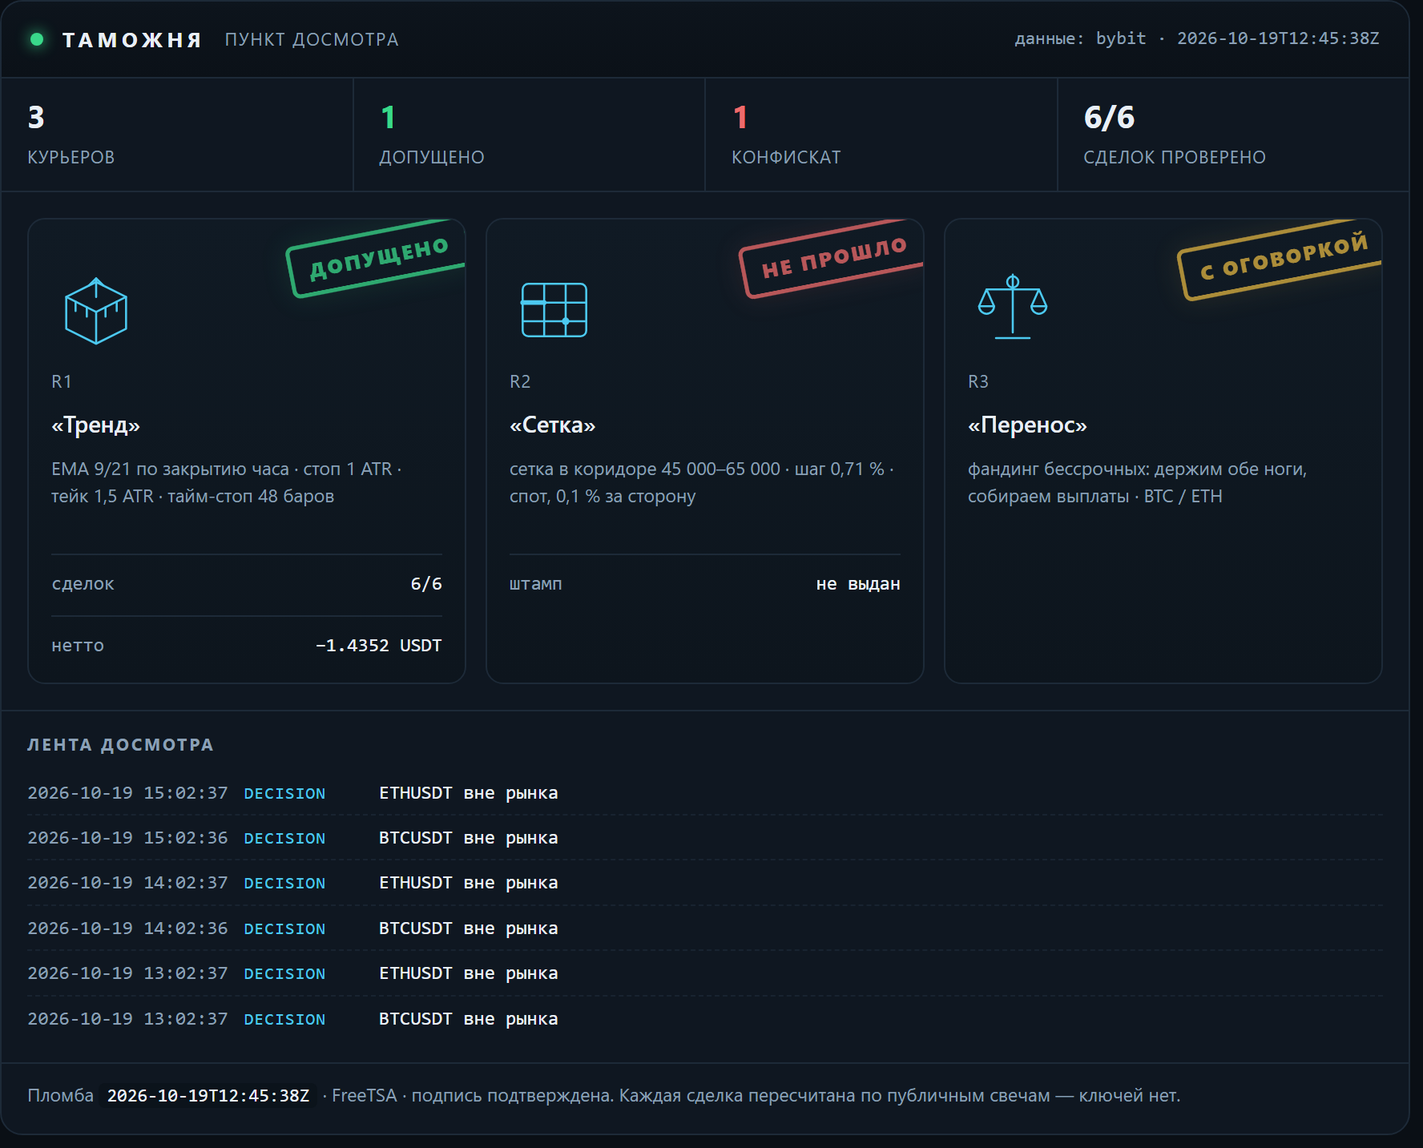
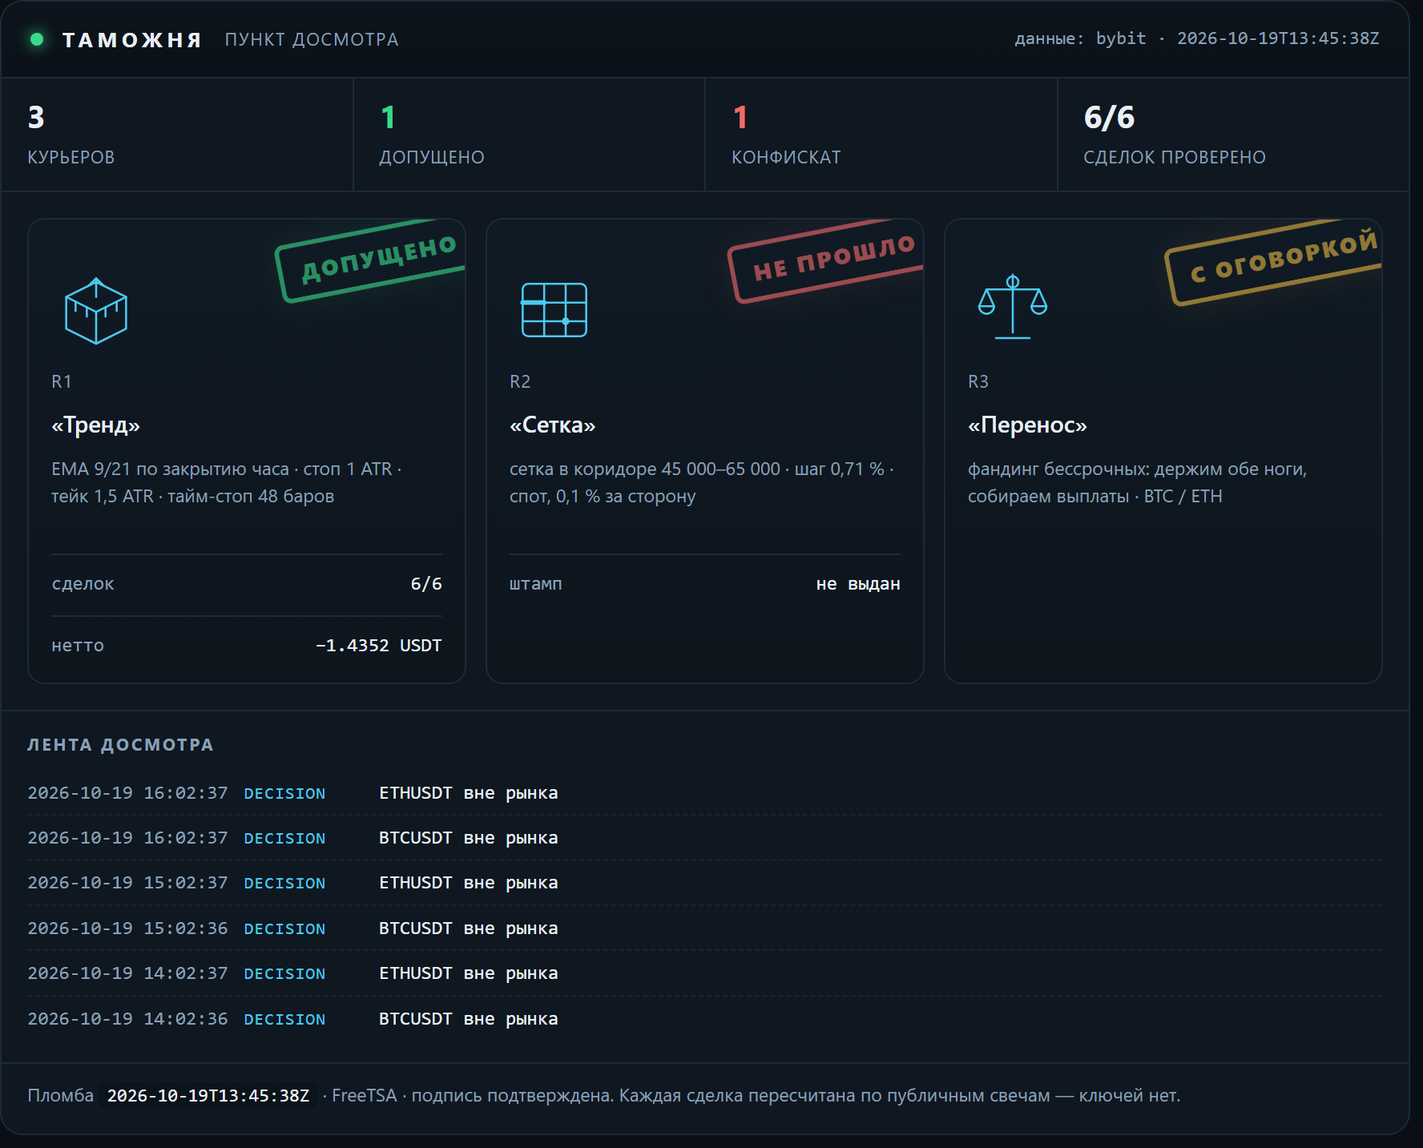
lab: таможня — свежие числа досмотра

Changed region(s): [[0.8052, 0.1842, 0.96, 0.2763], [0.4955, 0.1842, 0.6503, 0.2763], [0.1858, 0.1842, 0.3407, 0.2763]]

diff --git a/docs/customs.html b/docs/customs.html
@@ -16,7 +16,7 @@
   <h1><a href="index.html">Gramwright Lab</a></h1>
   <p>Журнал проверки торговых гипотез: что проверяли, что вышло по факту, сколько съели издержки. Числа берутся из журнала стенда. Не инвестиционная рекомендация.</p>
 </header>
-<h1>Таможня</h1><p class="intro">Пункт досмотра заявленных результатов. Стратегии приезжают с грузом обещаний, и каждая проходит проверку по публичным данным биржи: цены существуют, комиссии по тарифу, нетто сходится. Что прошло — получает штамп. Что не прошло — в конфискат, с причиной. Штамп означает «записи подлинные», а не «стратегия прибыльна».</p><p><img src="img/customs.png" alt="Терминал досмотра: три курьера, штампы, лента событий" style="width:100%;height:auto;border:1px solid var(--line);border-radius:10px"></p><p class="c-note">Сверху — тот же терминал, что собирается из журналов: счётчики, эмблемы курьеров, штампы и лента последних событий. Ниже — то же самое текстом, чтобы читалось с телефона и индексировалось поиском.</p><article><h2>R1 «Тренд» <span class="verdict">— <span class="c-ok">допущено</span></span></h2><p><strong>Правило:</strong> EMA 9/21 по закрытию часа · стоп 1 ATR · тейк 1,5 ATR · тайм-стоп 48 баров</p><p><strong>Декларация:</strong> Заявлено до прогона: держать 30 сделок, лимит нотионала 10 % от счёта, стоп дня −1 %. Прибыль не заявлялась — это важно: курьер не обещал доход.</p><p><strong>Проверено по публичным свечам, без ключей:</strong> 6 из 6 сделок. Сумма нетто −1.4352 USDT.</p><ul class="c-chk"><li class="y">BTCUSDT: нетто −0.8746 USDT · комиссии 0.0901 · проверено · с поправкой</li><li class="y">BTCUSDT: нетто −0.5441 USDT · комиссии 0.0896 · проверено</li><li class="y">ETHUSDT: нетто −0.2253 USDT · комиссии 0.0266 · проверено</li><li class="y">ETHUSDT: нетто −0.1513 USDT · комиссии 0.0265 · проверено</li><li class="y">ETHUSDT: нетто +0.1984 USDT · комиссии 0.0262 · проверено</li><li class="y">ETHUSDT: нетто +0.1617 USDT · комиссии 0.0260 · проверено</li></ul><p class="tags">журнал sha256 2cb286359f4c0435… · проверяльщик verify-1</p><p class="c-note">Штамп означает: записи подлинные, а не что стратегия прибыльна. Курьер в минусе, и минус тоже стоит на штампе — иначе это была бы не проверка, а реклама.</p><p class="tags">источник: verify-report.json</p></article><article><h2>R2 «Сетка» <span class="verdict">— <span class="c-bad">не прошло</span></span></h2><p><strong>Правило:</strong> сетка в коридоре 45 000–65 000 · шаг 0,71 % · спот, 0,1 % за сторону</p><p><strong>Декларация:</strong> Заявлено: «44 % урожая уходит бирже в виде комиссий». Кроме того — перевес над простым владением монетой.</p><p><strong>Что сошлось:</strong></p><ul class="c-chk"><li class="y">сами числа пересчитаны и воспроизводятся: коридор 45–65k был активен 23 % всей истории и 28 % последних двух лет</li></ul><p><strong>Что не сошлось:</strong></p><ul class="c-chk"><li class="n">44 % не подтвердилось: при шаге 0,71 % и тарифе 0,1 % комиссия съедает 28,3 % шага. Чтобы получить 44 %, нужен шаг 0,45 % — это около 80 уровней, а не 50</li><li class="n">от урожая доля комиссий 85,5 % за всю историю и 49,6 % за последние два года — тоже не 44 %</li><li class="n">перевес над владением посчитан на тарифе 0,055 %: при нём +1,32 п. п., на розничном 0,1 % — −0,72 п. п. То есть перевес исчезает</li><li class="n">семилетний тест стартовал в сентябре 2019 при биткоине около 10 000 — ниже коридора. Он говорит, что фиксированный коридор не подходит для периода, а не что сетка отстаёт</li></ul><p class="tags">источник: lab_grid.py, пересчёт 17.10.2026</p></article><article><h2>R3 «Перенос» <span class="verdict">— <span class="c-warn">с оговоркой</span></span></h2><p><strong>Правило:</strong> фандинг бессрочных: держим обе ноги, собираем выплаты · BTC / ETH</p><p><strong>Декларация:</strong> Заявлено: около 11,9 % в год от выплат фандинга при просадке выплатной кривой меньше 2 %.</p><p><strong>Что сошлось:</strong></p><ul class="c-chk"><li class="y">выплаты взяты из публичной истории биржи, ключей не нужно: BTC — 7 190 выплат с 25.03.2020, ETH — 6 561 с 21.10.2020</li><li class="y">сумма сходится: +83,4 % и +83,2 % за 6,6 и 6,0 года — те самые ~11,9 % в год</li><li class="y">худшая просадка выплатной кривой: −1,65 % и −1,97 %</li></ul><p><strong>Что не сошлось:</strong></p><ul class="c-chk"><li class="n">оговорка 1: премию сжали — 2021 год дал +38,3 %, 2026 — +1,96 %. Прошлое не повторяется</li><li class="n">оговорка 2: вход-выход стоит около 0,31 %, капитала нужно 1,2 от нотионала, текущий базис −0,082 % против входа</li><li class="n">оговорка 3: риск площадки. История FTX в этой же таблице выглядела так же прилично</li></ul><p class="tags">источник: публичная история фандинга Bybit, замер 17.10.2026</p></article><div class="c-conf"><h3>Конфискат</h3><p><strong>«Сетка»: заявленные 44 % комиссий не подтвердились.</strong> Досмотр показал 28,3 % от шага и 85,5 % от урожая — цифра хуже заявленной по форме, но лучше по смыслу: сетку убивает не размер шага, а то, что урожай почти весь уходит в комиссии. Это и вышло в выпуск — с поправкой, а не с красивой цифрой.</p></div><p class="c-note">Пломба: <code>2026-10-19T12:45:38Z</code> · нотариус FreeTSA · Oct 19 12:45:38 2026 GMT · подпись подтверждена. Манифест скрепляет отчёт проверки, журнал сделок и декларации курьеров: подменишь любую цифру — пломба перестанет сходиться.</p><p class="c-note">Досмотр идёт по публичным минутным свечам и публичной истории фандинга — ключей у проверяющего нет, и он может повторить проверку сам.</p><p class="c-note">Контент образовательный, не является инвестиционной рекомендацией. Торговля связана с риском потери капитала.</p>
+<h1>Таможня</h1><p class="intro">Пункт досмотра заявленных результатов. Стратегии приезжают с грузом обещаний, и каждая проходит проверку по публичным данным биржи: цены существуют, комиссии по тарифу, нетто сходится. Что прошло — получает штамп. Что не прошло — в конфискат, с причиной. Штамп означает «записи подлинные», а не «стратегия прибыльна».</p><p><img src="img/customs.png" alt="Терминал досмотра: три курьера, штампы, лента событий" style="width:100%;height:auto;border:1px solid var(--line);border-radius:10px"></p><p class="c-note">Сверху — тот же терминал, что собирается из журналов: счётчики, эмблемы курьеров, штампы и лента последних событий. Ниже — то же самое текстом, чтобы читалось с телефона и индексировалось поиском.</p><article><h2>R1 «Тренд» <span class="verdict">— <span class="c-ok">допущено</span></span></h2><p><strong>Правило:</strong> EMA 9/21 по закрытию часа · стоп 1 ATR · тейк 1,5 ATR · тайм-стоп 48 баров</p><p><strong>Декларация:</strong> Заявлено до прогона: держать 30 сделок, лимит нотионала 10 % от счёта, стоп дня −1 %. Прибыль не заявлялась — это важно: курьер не обещал доход.</p><p><strong>Проверено по публичным свечам, без ключей:</strong> 6 из 6 сделок. Сумма нетто −1.4352 USDT.</p><ul class="c-chk"><li class="y">BTCUSDT: нетто −0.8746 USDT · комиссии 0.0901 · проверено · с поправкой</li><li class="y">BTCUSDT: нетто −0.5441 USDT · комиссии 0.0896 · проверено</li><li class="y">ETHUSDT: нетто −0.2253 USDT · комиссии 0.0266 · проверено</li><li class="y">ETHUSDT: нетто −0.1513 USDT · комиссии 0.0265 · проверено</li><li class="y">ETHUSDT: нетто +0.1984 USDT · комиссии 0.0262 · проверено</li><li class="y">ETHUSDT: нетто +0.1617 USDT · комиссии 0.0260 · проверено</li></ul><p class="tags">журнал sha256 cd0961a6c8a0f4fb… · проверяльщик verify-1</p><p class="c-note">Штамп означает: записи подлинные, а не что стратегия прибыльна. Курьер в минусе, и минус тоже стоит на штампе — иначе это была бы не проверка, а реклама.</p><p class="tags">источник: verify-report.json</p></article><article><h2>R2 «Сетка» <span class="verdict">— <span class="c-bad">не прошло</span></span></h2><p><strong>Правило:</strong> сетка в коридоре 45 000–65 000 · шаг 0,71 % · спот, 0,1 % за сторону</p><p><strong>Декларация:</strong> Заявлено: «44 % урожая уходит бирже в виде комиссий». Кроме того — перевес над простым владением монетой.</p><p><strong>Что сошлось:</strong></p><ul class="c-chk"><li class="y">сами числа пересчитаны и воспроизводятся: коридор 45–65k был активен 23 % всей истории и 28 % последних двух лет</li></ul><p><strong>Что не сошлось:</strong></p><ul class="c-chk"><li class="n">44 % не подтвердилось: при шаге 0,71 % и тарифе 0,1 % комиссия съедает 28,3 % шага. Чтобы получить 44 %, нужен шаг 0,45 % — это около 80 уровней, а не 50</li><li class="n">от урожая доля комиссий 85,5 % за всю историю и 49,6 % за последние два года — тоже не 44 %</li><li class="n">перевес над владением посчитан на тарифе 0,055 %: при нём +1,32 п. п., на розничном 0,1 % — −0,72 п. п. То есть перевес исчезает</li><li class="n">семилетний тест стартовал в сентябре 2019 при биткоине около 10 000 — ниже коридора. Он говорит, что фиксированный коридор не подходит для периода, а не что сетка отстаёт</li></ul><p class="tags">источник: lab_grid.py, пересчёт 17.10.2026</p></article><article><h2>R3 «Перенос» <span class="verdict">— <span class="c-warn">с оговоркой</span></span></h2><p><strong>Правило:</strong> фандинг бессрочных: держим обе ноги, собираем выплаты · BTC / ETH</p><p><strong>Декларация:</strong> Заявлено: около 11,9 % в год от выплат фандинга при просадке выплатной кривой меньше 2 %.</p><p><strong>Что сошлось:</strong></p><ul class="c-chk"><li class="y">выплаты взяты из публичной истории биржи, ключей не нужно: BTC — 7 190 выплат с 25.03.2020, ETH — 6 561 с 21.10.2020</li><li class="y">сумма сходится: +83,4 % и +83,2 % за 6,6 и 6,0 года — те самые ~11,9 % в год</li><li class="y">худшая просадка выплатной кривой: −1,65 % и −1,97 %</li></ul><p><strong>Что не сошлось:</strong></p><ul class="c-chk"><li class="n">оговорка 1: премию сжали — 2021 год дал +38,3 %, 2026 — +1,96 %. Прошлое не повторяется</li><li class="n">оговорка 2: вход-выход стоит около 0,31 %, капитала нужно 1,2 от нотионала, текущий базис −0,082 % против входа</li><li class="n">оговорка 3: риск площадки. История FTX в этой же таблице выглядела так же прилично</li></ul><p class="tags">источник: публичная история фандинга Bybit, замер 17.10.2026</p></article><div class="c-conf"><h3>Конфискат</h3><p><strong>«Сетка»: заявленные 44 % комиссий не подтвердились.</strong> Досмотр показал 28,3 % от шага и 85,5 % от урожая — цифра хуже заявленной по форме, но лучше по смыслу: сетку убивает не размер шага, а то, что урожай почти весь уходит в комиссии. Это и вышло в выпуск — с поправкой, а не с красивой цифрой.</p></div><p class="c-note">Пломба: <code>2026-10-19T13:45:38Z</code> · нотариус FreeTSA · Oct 19 13:45:38 2026 GMT · подпись подтверждена. Манифест скрепляет отчёт проверки, журнал сделок и декларации курьеров: подменишь любую цифру — пломба перестанет сходиться.</p><p class="c-note">Досмотр идёт по публичным минутным свечам и публичной истории фандинга — ключей у проверяющего нет, и он может повторить проверку сам.</p><p class="c-note">Контент образовательный, не является инвестиционной рекомендацией. Торговля связана с риском потери капитала.</p>
 <footer class="site">
   Код стенда и аудитора: <a href="https://github.com/XSlaidx/truth-engine">XSlaidx/truth-engine</a>
   &middot; <a href="graveyard.html">кладбище правил</a>
